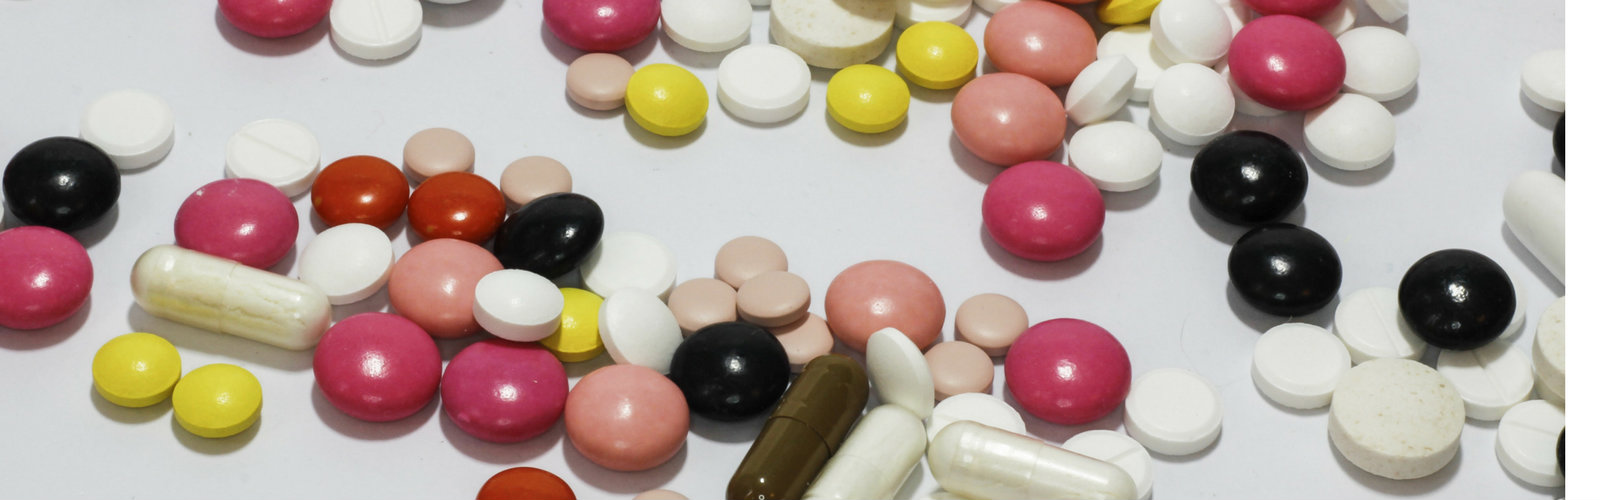
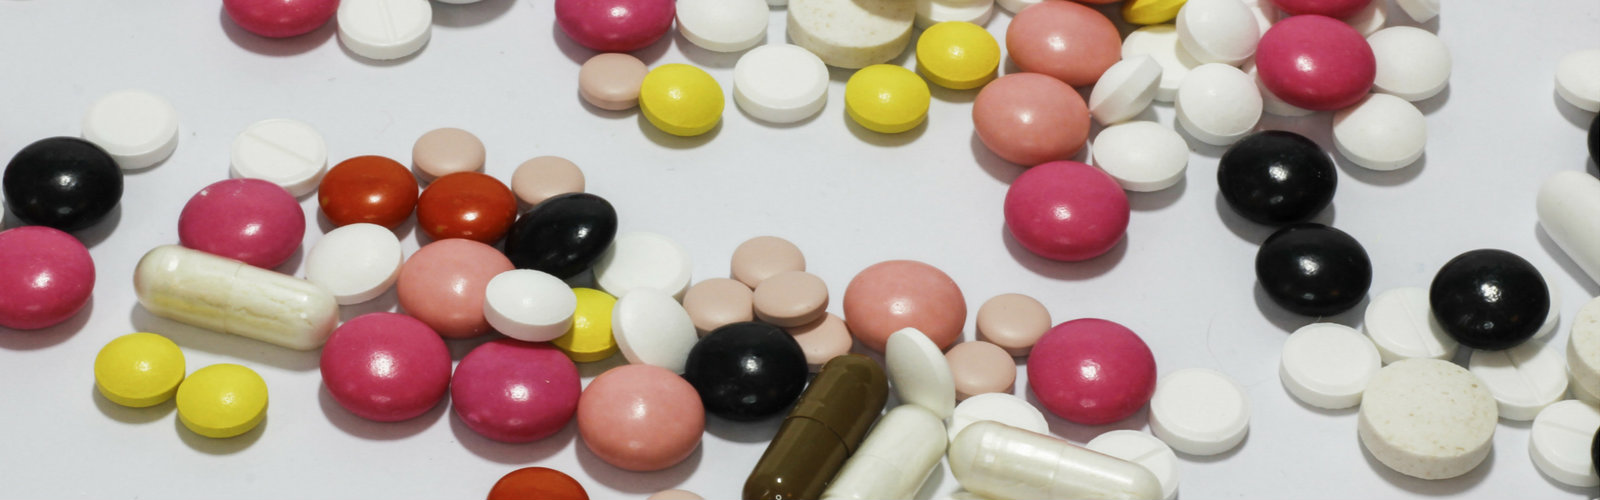
adjust home layout

diff --git a/src/client/index.html b/src/client/index.html
@@ -43,15 +43,13 @@
 				
                 <div class="collapse navbar-collapse navbar-right">
                     <ul class="nav navbar-nav">
-                        <li class="scroll active"><a href="#home">Home</a></li>
-                        <li class="scroll"><a href="#features">Features</a></li>
-                        <li class="scroll"><a href="#services">Services</a></li>
-                        <li class="scroll"><a href="#portfolio">Portfolio</a></li>
-                        <li class="scroll"><a href="#about">About</a></li>
-                        <li class="scroll"><a href="#meet-team">Team</a></li>
-                        <li class="scroll"><a href="#pricing">Pricing</a></li>
-                        <li class="scroll"><a href="#blog">Blog</a></li> 
-                        <li class="scroll"><a href="#get-in-touch">Contact</a></li>                        
+                        <li class="scroll active"><a href="#home">หน้าหลัก</a></li>
+                        <li class="scroll"><a href="#features">โครงการ RDU Hospital</a></li>
+                        <li class="scroll"><a href="#services">มุ่งสู่ RDU Hospital</a></li>
+                        <li class="scroll"><a href="#portfolio">สื่อเผยแพร่</a></li>
+                        <li class="scroll"><a href="#about">ข่าวและกิจกรรม	</a></li>
+                        <li class="scroll"><a href="#meet-team">สำหรับคณะทำงาน</a></li>
+                        <li class="scroll"><a href="#get-in-touch">ติดต่อเรา</a></li>                        
                     </ul>
                 </div>
             </div><!--/.container-->

diff --git a/src/client/css/main.less b/src/client/css/main.less
@@ -271,7 +271,7 @@ ul.nostyle {
   overflow: hidden;
 
   .item {
-    height: 558px;
+    height: 500px;
     background-repeat: no-repeat;
     background-position: 50% 0;
     background-size: cover;
